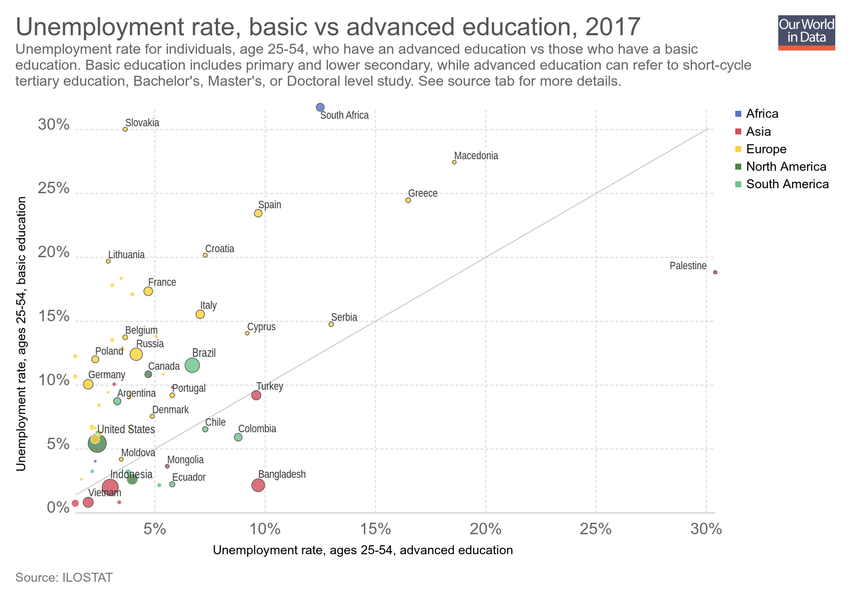
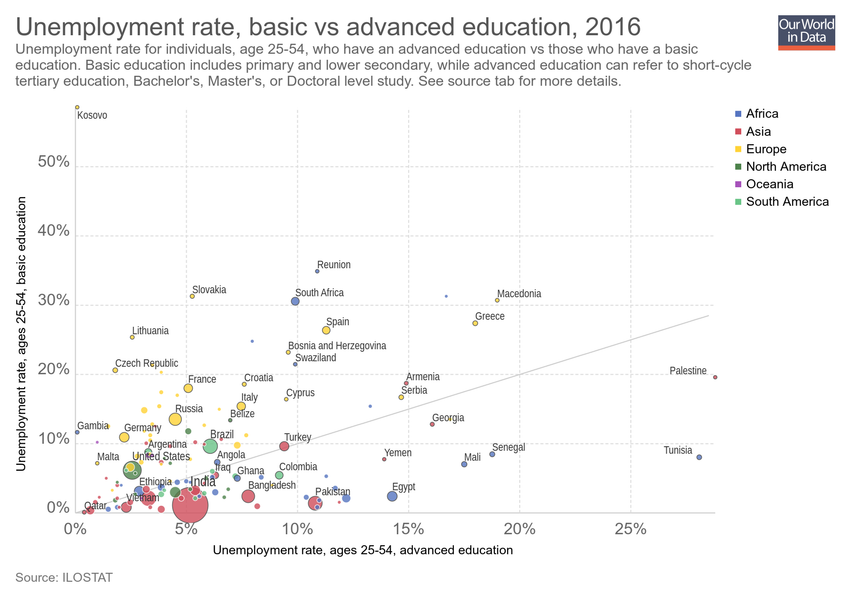
Updating chart unemployment-rate-with-basic-vs-advanced-education

diff --git a/grapher/unemployment-rate-with-basic-vs-advanced-education.html b/grapher/unemployment-rate-with-basic-vs-advanced-education.html
@@ -1,4 +1,4 @@
-<!doctype html><html><head><meta name="viewport" content="width=device-width, initial-scale=1" /><title>Unemployment rate, basic vs advanced education - Our World in Data</title><meta name="description" content="Unemployment rate for individuals, age 25-54, who have an advanced education vs those who have a basic education. Basic education includes primary and lower secondary, while advanced education can refer to short-cycle tertiary education, Bachelor's, Master's, or Doctoral level study. See source tab for more details." /><link rel="canonical" href="https://ourworldindata.org/grapher/unemployment-rate-with-basic-vs-advanced-education" /><meta property="fb:app_id" content="1149943818390250" /><meta property="og:url" content="https://ourworldindata.org/grapher/unemployment-rate-with-basic-vs-advanced-education" /><meta property="og:title" content="Unemployment rate, basic vs advanced education" /><meta property="og:description" content="Unemployment rate for individuals, age 25-54, who have an advanced education vs those who have a basic education. Basic education includes primary and lower secondary, while advanced education can refer to short-cycle tertiary education, Bachelor's, Master's, or Doctoral level study. See source tab for more details." /><meta property="og:image" content="https://ourworldindata.org/grapher/exports/unemployment-rate-with-basic-vs-advanced-education.png?v=5" /><meta property="og:image:width" content="850" /><meta property="og:image:height" content="600" /><meta property="og:site_name" content="Our World in Data" /><meta name="twitter:card" content="summary_large_image" /><meta name="twitter:site" content="@OurWorldInData" /><meta name="twitter:creator" content="@OurWorldInData" /><meta name="twitter:title" content="Unemployment rate, basic vs advanced education" /><meta name="twitter:description" content="Unemployment rate for individuals, age 25-54, who have an advanced education vs those who have a basic education. Basic education includes primary and lower secondary, while advanced education can refer to short-cycle tertiary education, Bachelor's, Master's, or Doctoral level study. See source tab for more details." /><meta name="twitter:image" content="https://ourworldindata.org/grapher/exports/unemployment-rate-with-basic-vs-advanced-education.png?v=5" /><style>
+<!doctype html><html><head><meta name="viewport" content="width=device-width, initial-scale=1" /><title>Unemployment rate, basic vs advanced education - Our World in Data</title><meta name="description" content="Unemployment rate for individuals, age 25-54, who have an advanced education vs those who have a basic education. Basic education includes primary and lower secondary, while advanced education can refer to short-cycle tertiary education, Bachelor's, Master's, or Doctoral level study. See source tab for more details." /><link rel="canonical" href="https://ourworldindata.org/grapher/unemployment-rate-with-basic-vs-advanced-education" /><meta property="fb:app_id" content="1149943818390250" /><meta property="og:url" content="https://ourworldindata.org/grapher/unemployment-rate-with-basic-vs-advanced-education" /><meta property="og:title" content="Unemployment rate, basic vs advanced education" /><meta property="og:description" content="Unemployment rate for individuals, age 25-54, who have an advanced education vs those who have a basic education. Basic education includes primary and lower secondary, while advanced education can refer to short-cycle tertiary education, Bachelor's, Master's, or Doctoral level study. See source tab for more details." /><meta property="og:image" content="https://ourworldindata.org/grapher/exports/unemployment-rate-with-basic-vs-advanced-education.png?v=6" /><meta property="og:image:width" content="850" /><meta property="og:image:height" content="600" /><meta property="og:site_name" content="Our World in Data" /><meta name="twitter:card" content="summary_large_image" /><meta name="twitter:site" content="@OurWorldInData" /><meta name="twitter:creator" content="@OurWorldInData" /><meta name="twitter:title" content="Unemployment rate, basic vs advanced education" /><meta name="twitter:description" content="Unemployment rate for individuals, age 25-54, who have an advanced education vs those who have a basic education. Basic education includes primary and lower secondary, while advanced education can refer to short-cycle tertiary education, Bachelor's, Master's, or Doctoral level study. See source tab for more details." /><meta name="twitter:image" content="https://ourworldindata.org/grapher/exports/unemployment-rate-with-basic-vs-advanced-education.png?v=6" /><style>
         html, body {
             height: 100%;
             margin: 0;
@@ -20,8 +20,8 @@
         }
     </style><noscript><style>
                     figure { display: none !important; }
-                </style></noscript><link rel="stylesheet" href="https://ourworldindata.org/grapher/assets/commons.bundle.b9f051796dbbbb7e5139.css" /><link rel="preload" href="/grapher/data/variables/97780+97779+72+123.json?v=5" as="fetch" crossorigin /></head><body class="singleChart"><figure data-grapher-src="/grapher/unemployment-rate-with-basic-vs-advanced-education"></figure><noscript id="fallback"><img src="/grapher/exports/unemployment-rate-with-basic-vs-advanced-education.svg" /><p>Interactive visualization requires JavaScript</p></noscript><script src="https://cdn.polyfill.io/v2/polyfill.min.js?features=es6,fetch"></script><script src="https://ourworldindata.org/grapher/assets/commons.bundle.b9f051796dbbbb7e5139.js"></script><script src="https://ourworldindata.org/grapher/assets/charts.bundle.b9f051796dbbbb7e5139.js"></script><script>
-        var jsonConfig = {"id":2951,"map":{"projection":"World","colorSchemeLabels":[],"colorSchemeValues":[],"customNumericColors":[],"customCategoryColors":{},"customCategoryLabels":{},"customHiddenCategories":{}},"tab":"chart","slug":"unemployment-rate-with-basic-vs-advanced-education","type":"ScatterPlot","title":"Unemployment rate, basic vs advanced education","xAxis":{"scaleType":"linear"},"yAxis":{"min":0,"scaleType":"linear"},"maxTime":2017,"minTime":2017,"version":5,"subtitle":"Unemployment rate for individuals, age 25-54, who have an advanced education vs those who have a basic education. Basic education includes primary and lower secondary, while advanced education can refer to short-cycle tertiary education, Bachelor's, Master's, or Doctoral level study. See source tab for more details.","hasMapTab":false,"stackMode":"absolute","dimensions":[{"display":{},"property":"y","variableId":97780},{"display":{},"property":"x","variableId":97779},{"display":{},"property":"size","variableId":72},{"display":{},"property":"color","variableId":123}],"hasChartTab":true,"isPublished":true,"selectedData":[],"comparisonLine":{}};
+                </style></noscript><link rel="stylesheet" href="https://ourworldindata.org/grapher/assets/commons.bundle.b9f051796dbbbb7e5139.css" /><link rel="preload" href="/grapher/data/variables/97780+97779+72+123.json?v=6" as="fetch" crossorigin /></head><body class="singleChart"><figure data-grapher-src="/grapher/unemployment-rate-with-basic-vs-advanced-education"></figure><noscript id="fallback"><img src="/grapher/exports/unemployment-rate-with-basic-vs-advanced-education.svg" /><p>Interactive visualization requires JavaScript</p></noscript><script src="https://cdn.polyfill.io/v2/polyfill.min.js?features=es6,fetch"></script><script src="https://ourworldindata.org/grapher/assets/commons.bundle.b9f051796dbbbb7e5139.js"></script><script src="https://ourworldindata.org/grapher/assets/charts.bundle.b9f051796dbbbb7e5139.js"></script><script>
+        var jsonConfig = {"id":2951,"map":{"projection":"World","colorSchemeLabels":[],"colorSchemeValues":[],"customNumericColors":[],"customCategoryColors":{},"customCategoryLabels":{},"customHiddenCategories":{}},"tab":"chart","slug":"unemployment-rate-with-basic-vs-advanced-education","type":"ScatterPlot","title":"Unemployment rate, basic vs advanced education","xAxis":{"min":0,"scaleType":"linear"},"yAxis":{"min":0,"scaleType":"linear"},"maxTime":2016,"minTime":2016,"version":6,"subtitle":"Unemployment rate for individuals, age 25-54, who have an advanced education vs those who have a basic education. Basic education includes primary and lower secondary, while advanced education can refer to short-cycle tertiary education, Bachelor's, Master's, or Doctoral level study. See source tab for more details.","hasMapTab":false,"stackMode":"absolute","dimensions":[{"display":{"tolerance":5},"property":"y","variableId":97780},{"display":{"tolerance":5},"property":"x","variableId":97779},{"display":{},"property":"size","variableId":72},{"display":{},"property":"color","variableId":123}],"hasChartTab":true,"isPublished":true,"hideTimeline":true,"selectedData":[],"comparisonLine":{}};
         var figure = document.getElementsByTagName("figure")[0];
         try {
             window.App = {};
